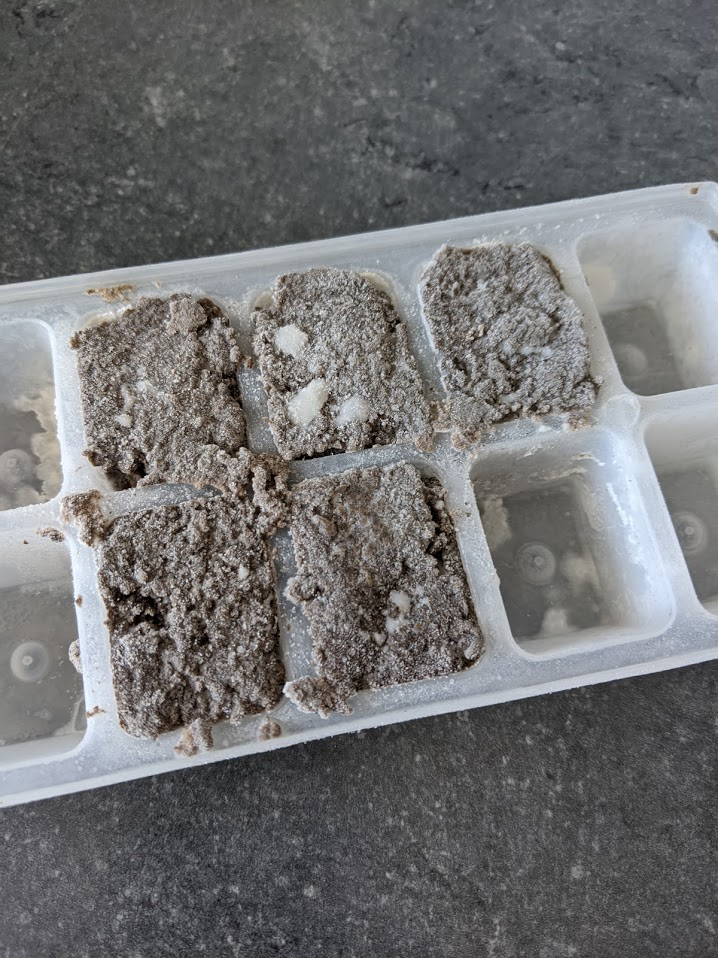
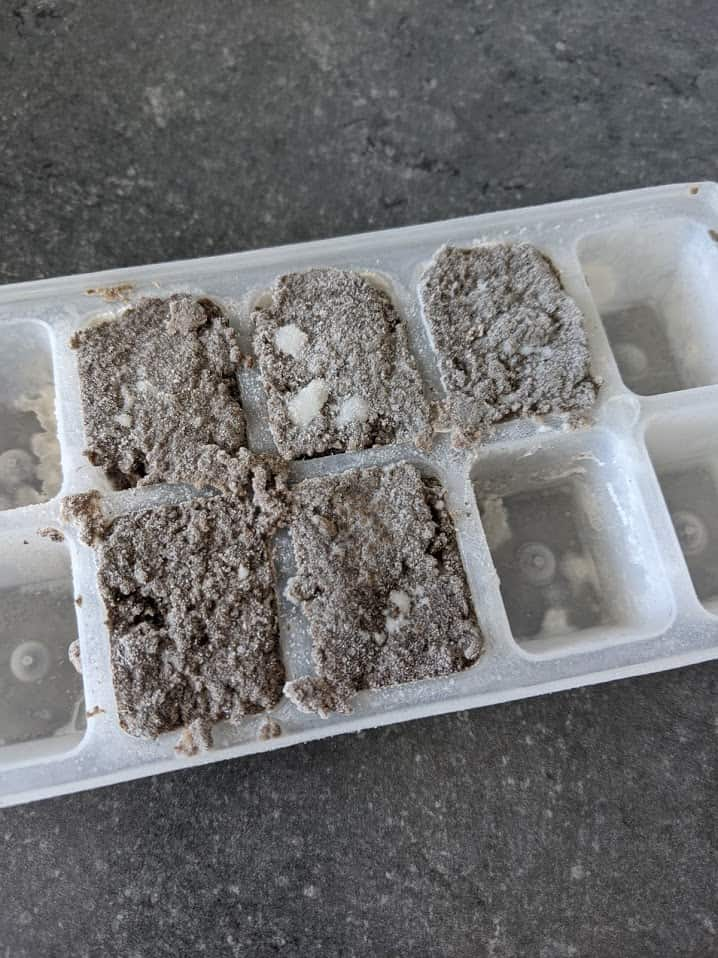
Squooshed images

diff --git a/cooking/index.html b/cooking/index.html
@@ -146,7 +146,7 @@
           <a class="block relative bg-brown" href="https://empijei.science/cooking/recipes/pasta-al-pesto/">
             
             
-            <div class="image ratio bg-cover" style="background-image:url(https://empijei.science/cooking//recipes/pasta-al-pesto/pasta-al-pesto.png);"></div>
+            <div class="image ratio bg-cover" style="background-image:url(https://empijei.science/cooking//recipes/pasta-al-pesto/pasta-al-pesto.jpg);"></div>
             
             
             <h1 class="title p2 m0 absolute white bottom-0 left-0 title-shadow">Pasta al pesto</h1>

diff --git a/cooking/recipes/pasta-al-pesto/index.html b/cooking/recipes/pasta-al-pesto/index.html
@@ -77,7 +77,7 @@ Pasta al pesto · (C|B)ook
   
   
   <div class="xs-p2">
-    <img itemprop="image" src="pasta-al-pesto.png" />
+    <img itemprop="image" src="pasta-al-pesto.jpg" />
   </div>
   
 
